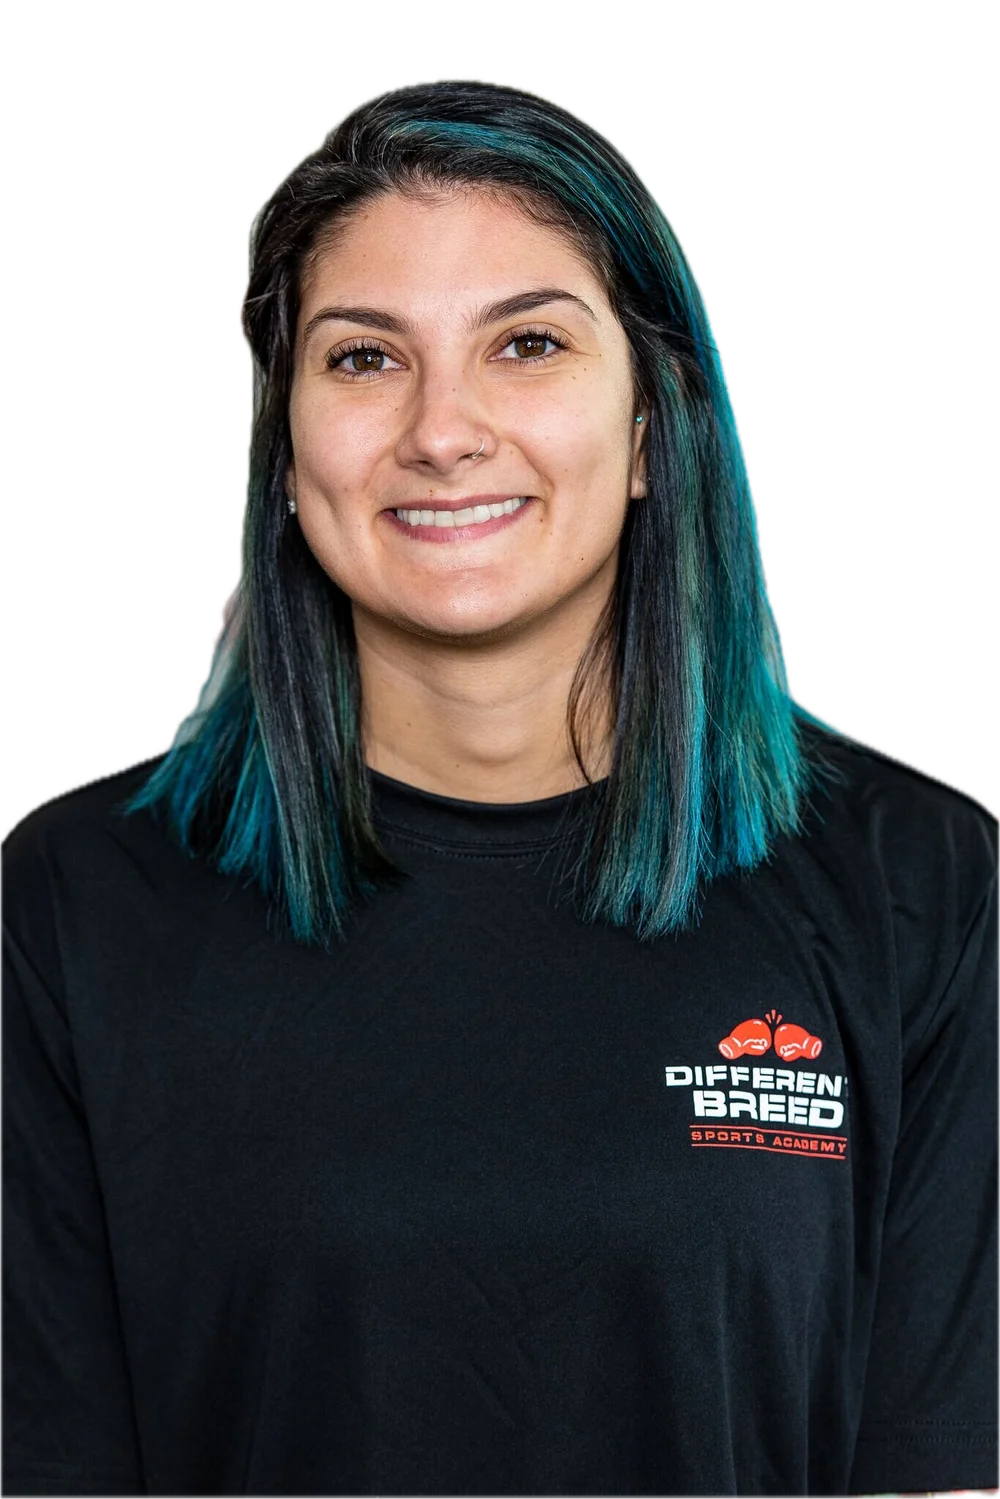
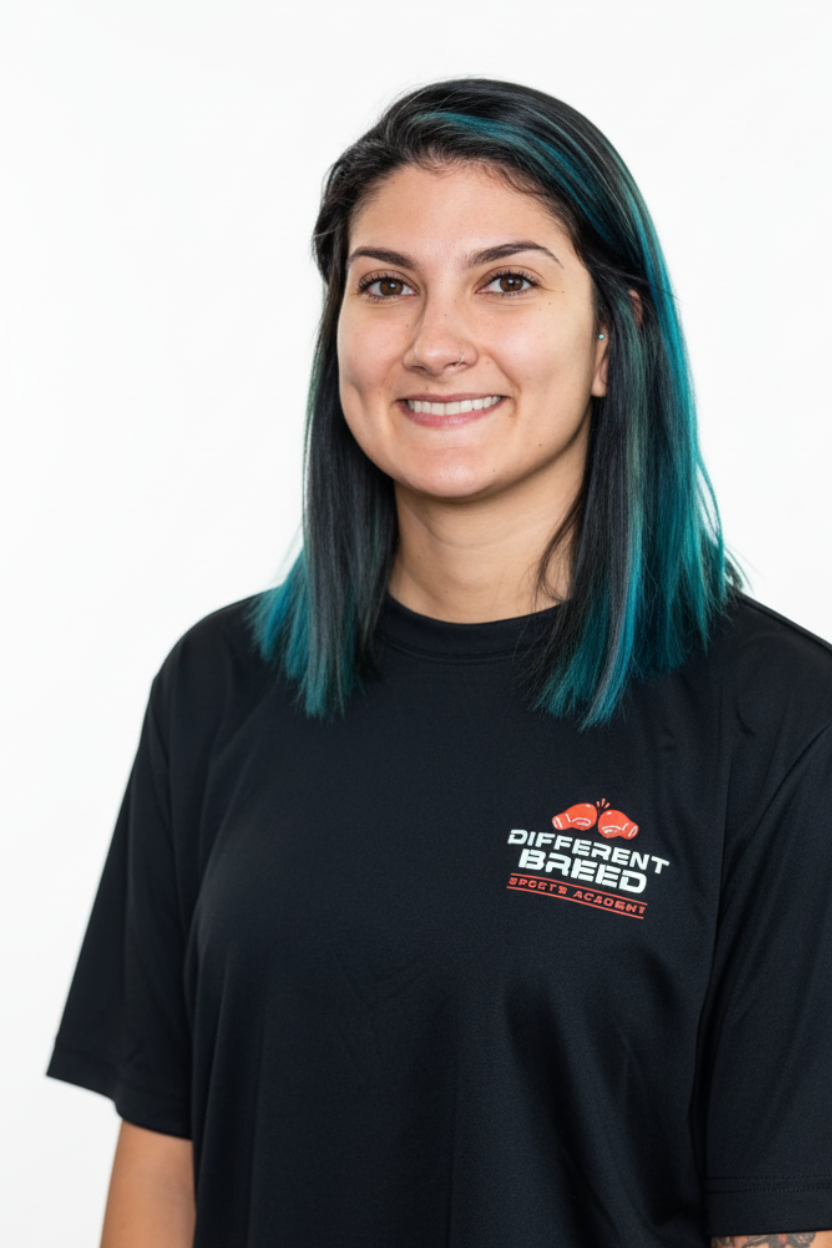
updated coach photos

diff --git a/src/content/personalTraining.ts b/src/content/personalTraining.ts
@@ -10,15 +10,15 @@ export type Step = {
   description: string;
 };
 
-import aadamAliImage from '../assets/coaches/aadam-ali-personal-training.webp?url';
+import aadamAliImage from '../assets/coaches/aadam-ali-personal-training.png?url';
 import donSomervilleImage from '../assets/coaches/personal-training-don-somerville.png?url';
 import joeButtaImage from '../assets/coaches/personal-training-joe-butta.png?url';
-import danielWilsonImage from '../assets/coaches/personal-training-daniel-wilson.webp?url';
-import coachDredImage from '../assets/coaches/personal-training-coach-dred.webp?url';
-import carlosAcevedoImage from '../assets/coaches/personal-training-carlos-acevdeo.webp?url';
-import pabloGaryImage from '../assets/coaches/personal-training-pablo-gary.webp?url';
+import danielWilsonImage from '../assets/coaches/personal-training-daniel-wilson.png?url';
+import coachDredImage from '../assets/coaches/personal-training-coach-dred.png?url';
+import carlosAcevedoImage from '../assets/coaches/personal-training-carlos-acevdeo.png?url';
+import pabloGaryImage from '../assets/coaches/personal-training-pablo-gary.png?url';
 import glendaOrtizImage from '../assets/coaches/personal-training-glenda-ortiz.png?url';
-import ricardoCastroImage from '../assets/coaches/personal-training-ricardo-castro.webp?url';
+import ricardoCastroImage from '../assets/coaches/personal-training-ricardo-castro.png?url';
 import coreyWhiteImage from '../assets/coaches/personal-training-corey-white.webp?url';
 import matthewSorrentinoImage from '../assets/coaches/personal-training-matthew-sorrentino.png?url';
 import michelleButtafuocoImage from '../assets/coaches/personal-training-michelle-buttafuoco.png?url';

diff --git a/docs/stories/2.2-personal-training-page.md b/docs/stories/2.2-personal-training-page.md
@@ -61,7 +61,7 @@ OpenAI GPT-5 (Codex)
 - Added server-compatible Formspree CTA hooks and documented component usage plus TODO guidance in `README.md`.
 - Created unit tests (`tests/unit/personal-training.test.ts`) verifying personal training content integrity.
 - Rebuilt `CoachGrid` to present first-name portrait tiles with hover/focus overlay revealing details, tags, and CTA while keeping semantic HTML and keyboard support.
-- Adjusted coach tiles for edge-to-edge top-aligned photography, swapped updated PNG headshots for Michelle, Don, Joe, Glenda, and Matthew, and added subtle hover zoom to portraits.
+- Adjusted coach tiles for edge-to-edge top-aligned photography, swapped updated PNG headshots for the full roster (Michelle, Don, Joe, Glenda, Matthew, Ricardo, Daniel, Carlos, Aadám, Pablo, Coach D.R.E.D.), and added subtle hover zoom to portraits.
 
 
 ### File List
